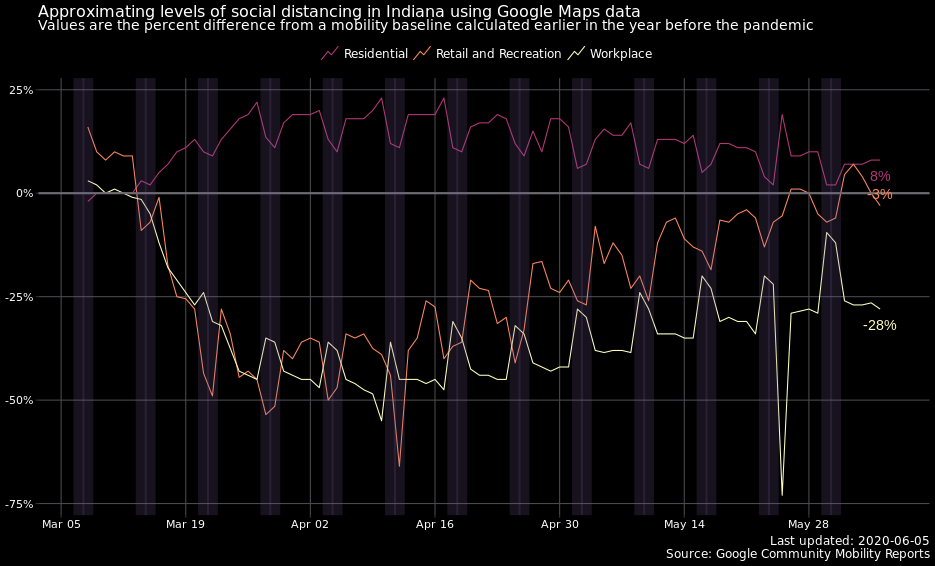
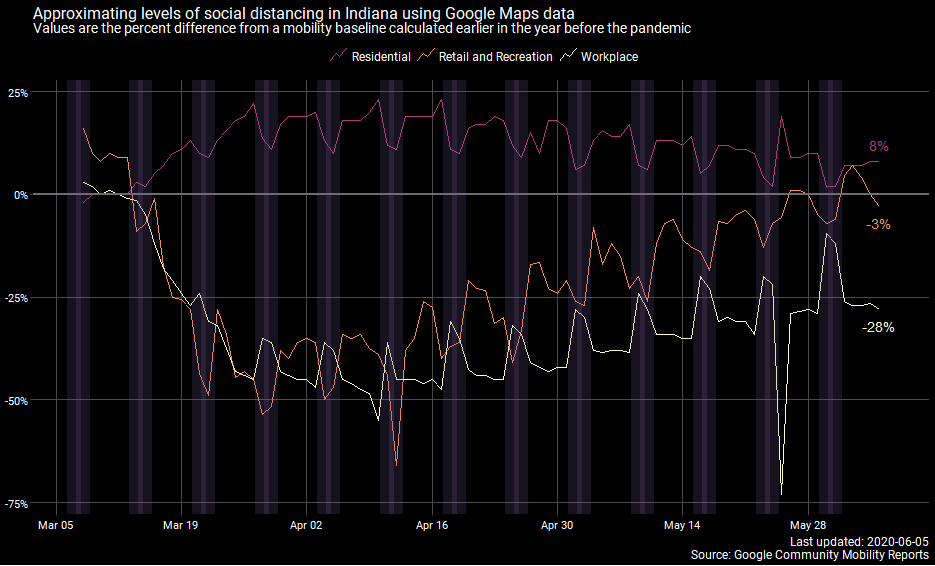
manual noon update

diff --git a/README.md b/README.md
@@ -30,7 +30,7 @@ listed in the AEI proposal. Along with tracking virus spread metrics,
 I’ll also be tracking as many of these triggers as I can with the data
 that’s available.
 
-<img src="plots/ind-combo-line-2020-06-08.png" width="935" />
+<img src="plots/ind-combo-line-2020-06-09.png" width="935" />
 
   - Each point is the total cases that have accumulated until that date.
     The lines show the exponential nature of the spread of the virus at
@@ -44,7 +44,7 @@ that’s available.
     valid assumption in this situation, but it’s interesting as a
     hypothetical.
 
-<img src="plots/pos-policy-line-2020-06-08.png" width="935" />
+<img src="plots/pos-policy-line-2020-06-09.png" width="935" />
 
   - This chart shows the number of daily positive cases on the y-axis
     versus the cumulative total of positive cases on the x-axis, where
@@ -71,7 +71,7 @@ that’s available.
       - The proportion of available ventilators to total ventilators
         being below 70% for 14 consecutive days.
 
-<img src="plots/pos-rate-line-2020-06-07.png" width="935" />
+<img src="plots/pos-rate-line-2020-06-08.png" width="935" />
 
   - The Positive Test Rate is the number of positive test results
     divided by the number of tests administered over a period of time.
@@ -92,7 +92,7 @@ that’s available.
   - U.S. average calculated using data from [The COVID Tracking
     Project](https://covidtracking.com/api).
 
-<img src="plots/soc-dist-line-2020-06-07.png" width="935" />
+<img src="plots/soc-dist-line-2020-06-08.png" width="935" />
 
   - Apple made available some of the
     [data](https://www.apple.com/covid19/mobility) it collects from its
@@ -121,9 +121,9 @@ that’s available.
         the week, during the 5- week period Jan 3–Feb 6, 2020.  
   - Weekends are shown as vertical bars.
 
-<img src="plots/region-dea-line-2020-06-08.png" width="935" />
+<img src="plots/region-dea-line-2020-06-09.png" width="935" />
 
-<img src="plots/region-pos-line-2020-06-08.png" width="3897" />
+<img src="plots/region-pos-line-2020-06-09.png" width="3897" />
 
   - The y-axis has been transformed to the logarithmic base-10 scale.
     Slopes and trends of straight(-ish) lines are easier to compare than
@@ -133,7 +133,7 @@ that’s available.
   - 7-day averages *less* than 14 day averages indicate a *decreasing*
     trend in positive cases or deaths.
 
-<img src="plots/county-pos-bar-2020-06-08.png" width="935" />
+<img src="plots/county-pos-bar-2020-06-09.png" width="935" />
 
   - The top 20 counties according to estimated average percent change
     are shown. Counties at the top are experiencing the highest average
@@ -141,7 +141,7 @@ that’s available.
   - The average percent changes are estimated using county data in a
     log-linear model.
 
-<img src="plots/daily-re-line-2020-06-08.png" width="935" />
+<img src="plots/daily-re-line-2020-06-09.png" width="935" />
 
   - The instantaneous effective reproduction number, R<sub>e</sub> is an
     estimate of the average number of people that an infected person is
